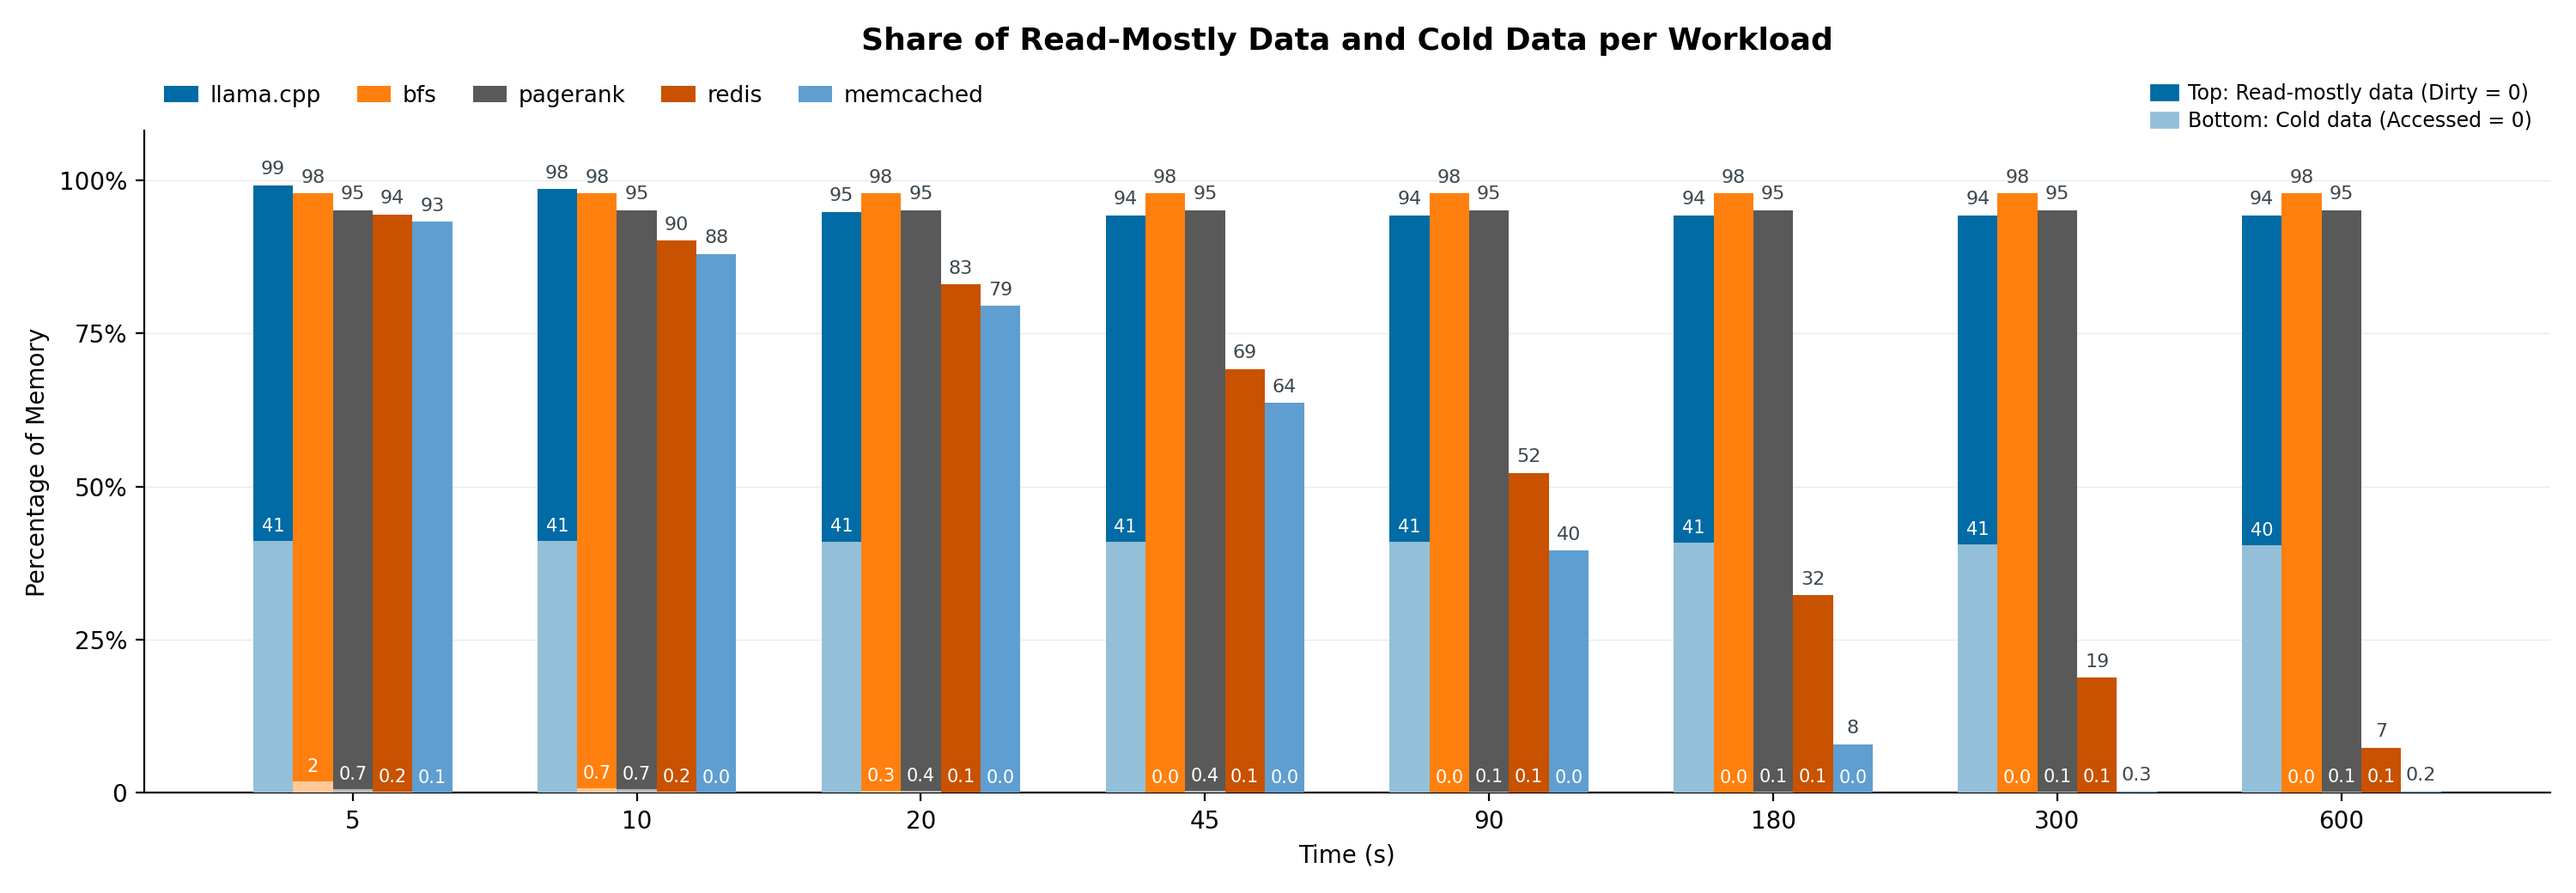
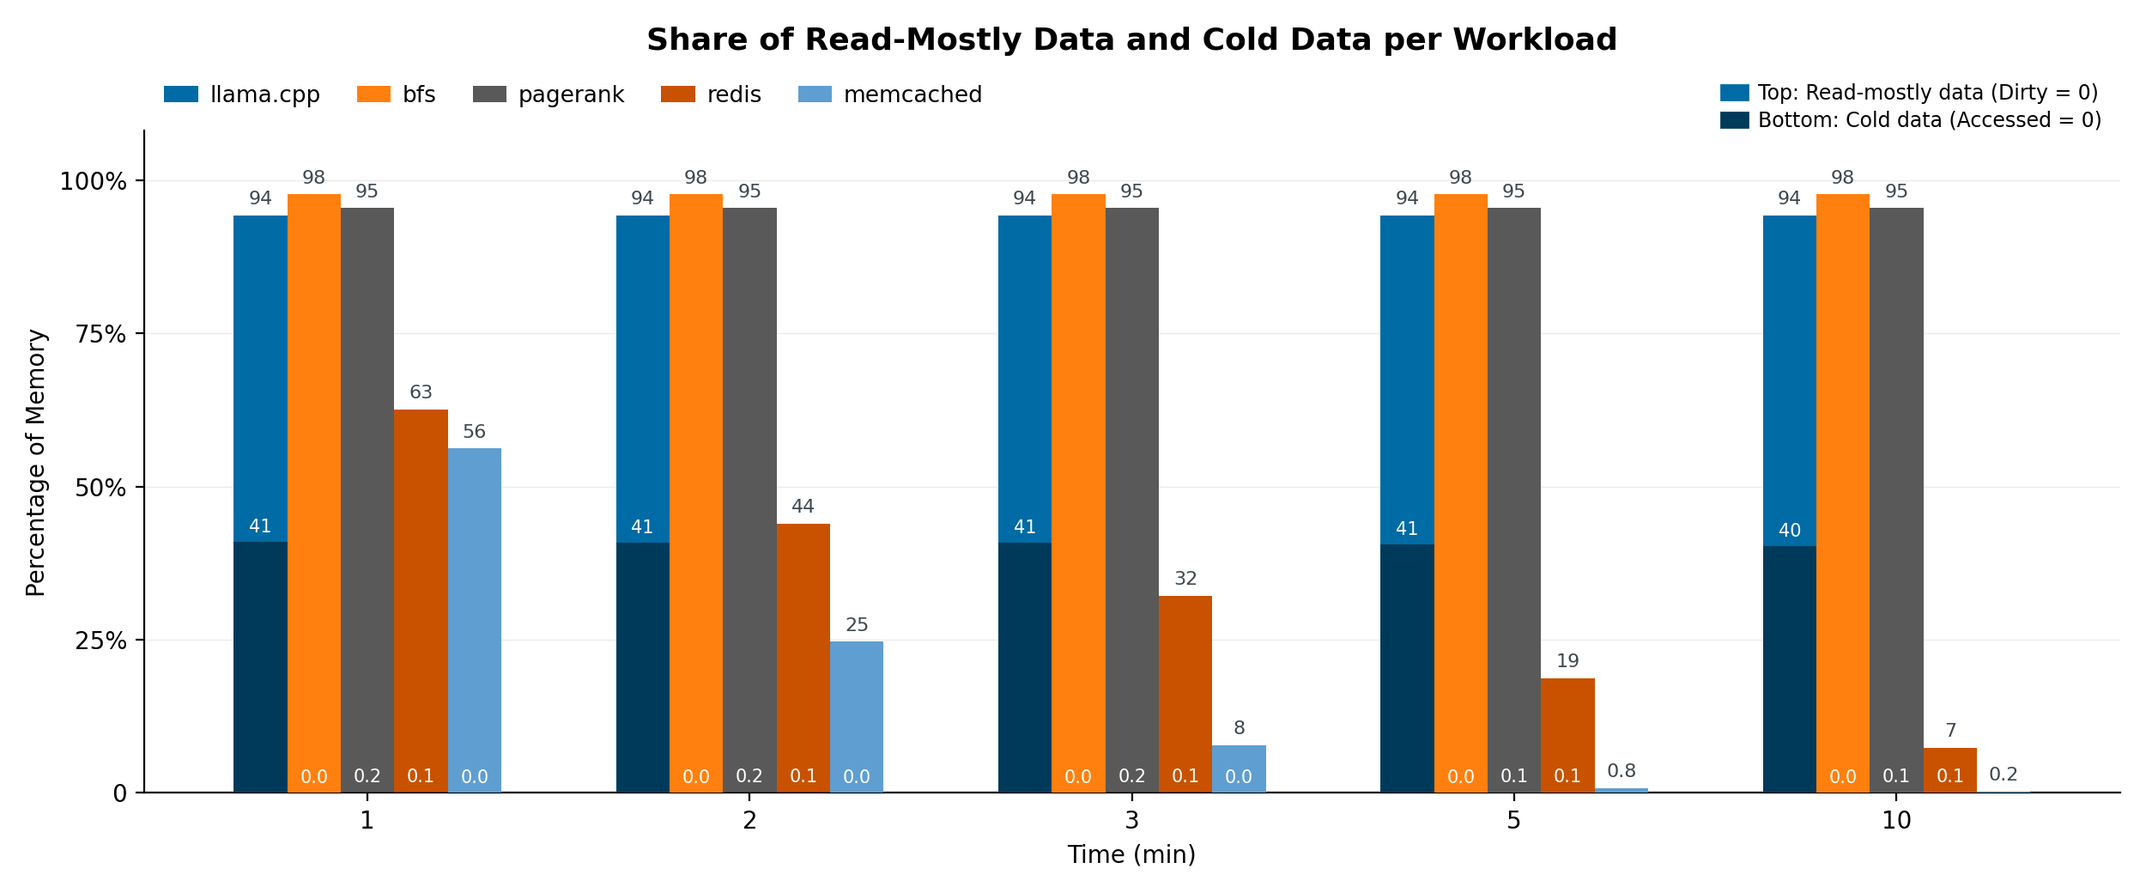
fig10: one figure, two T scales; census writes per ladder point
Drops the per-workload panel figure and the lighter-shade variant. What was
fig10c is now fig10 -- the whole ladder, log-spaced to 8 groups, ticks in
seconds.

fig10b is the same data on a minute scale at T = 1, 2, 3, 5, 10 min. These are
measured points, not interpolated: 60, 120, 180, 300 and 600 s are all on the
ladder already, so this needed no new run. The previous 1.5/3/5/10 was an
artefact of log-spaced thinning, not of what was measured.

grouped() now takes an explicit T list and a tick unit instead of deriving
both, so any subset can be drawn from the same data.

decay_census emits after every ladder point rather than every pass. At the
current 600 s ladder that hardly matters; at a 2-hour ladder a pass that dies
at 90 minutes would otherwise lose all 90 points it had already measured.

diff --git a/scripts/plot_census.py b/scripts/plot_census.py
@@ -100,70 +100,7 @@ for _n, _pts in work.items():
                   f"Monotone by definition.", file=sys.stderr)
 
 names = sorted(work)
-n = len(names)
-ncol = 1 if n == 1 else (2 if n <= 4 else 3)
-nrow = math.ceil(n / ncol)
-fig, axes = plt.subplots(nrow, ncol, figsize=(6.4 * ncol, 4.0 * nrow),
-                         squeeze=False)
 
-for k, name in enumerate(names):
-    ax = axes[k // ncol][k % ncol]
-    pts = work[name]
-    pts = [pts[j] for j in thin([p[0] for p in pts])]
-    ts   = [p[0] for p in pts]
-    wc   = [p[1] for p in pts]
-    cold = [p[2] for p in pts]
-    # cold_pct is -1 when the run had no root and could not read page_idle.
-    x = range(len(ts))
-    # Unprivileged runs can only measure cold at T = S, so a panel may have
-    # the cold segment on some bars and not others. Draw the full write-cold
-    # bar first and overdraw cold where it exists, rather than skipping the
-    # comparison entirely because one bar is missing it.
-    ax.bar(x, wc, width=.72, color=C_EXTRA, zorder=3,
-           label="write-cold: read, but not written in T  (what LtRAM moves)")
-    xc = [i for i in x if cold[i] >= 0]
-    if xc:
-        ax.bar(xc, [cold[i] for i in xc], width=.72, color=C_COLD, zorder=4,
-               label="cold: not accessed in T  (what cold-page tiering moves)")
-    have_cold = len(xc) == len(ts)
-
-    # One callout, on the T the argument is actually made at. A number the
-    # reader can quote beats a bar they have to measure against the axis.
-    tcall = a.at if a.at is not None else (ts[xc[-1]] if xc else ts[-1])
-    i = min(range(len(ts)), key=lambda j: abs(ts[j] - tcall))
-    if have_cold:
-        # Nudge off the frame when the callout sits on the last bar.
-        ha = "right" if i >= len(ts) - 1 else ("left" if i == 0 else "center")
-        dx = {"right": 10, "left": -10, "center": 0}[ha]
-        ax.annotate(f"{cold[i]:.0f}% \u2192 {wc[i]:.0f}%",
-                    (i, wc[i]), xytext=(dx, 7), textcoords="offset points",
-                    ha=ha, fontsize=10, weight="semibold", color="#3d474e")
-
-    if any(p[4] == "smaps_referenced" for p in pts):
-        ax.text(0.99, 0.03, "cold via smaps Referenced (proxy)", ha="right",
-                transform=ax.transAxes, fontsize=8, color="#7A838A")
-    mib = pts[0][3] * os.sysconf("SC_PAGE_SIZE") / 2**20
-    ax.set_title(f"{name}   ({mib:,.0f} MiB resident)", fontsize=12,
-                 weight="semibold", pad=10)
-    ax.set_xticks(list(x)); ax.set_xticklabels([tlabel(t) for t in ts], fontsize=9)
-    ax.set_ylim(0, 105); ax.set_yticks([0, 25, 50, 75, 100])
-    ax.set_yticklabels(["0", "25%", "50%", "75%", "100%"])
-    ax.set_xlabel("T, age threshold"); ax.set_ylabel("share of resident pages")
-    ax.grid(axis="y", alpha=.25, lw=.5); ax.set_axisbelow(True)
-    for s in ("top", "right"): ax.spines[s].set_visible(False)
-
-for k in range(n, nrow * ncol):
-    axes[k // ncol][k % ncol].axis("off")
-
-h, l = axes[0][0].get_legend_handles_labels()
-fig.legend(h[::-1], l[::-1], loc="lower center", ncol=1, frameon=False,
-           fontsize=10, bbox_to_anchor=(0.5, 0.0))
-fig.suptitle("Write-Cold Against Cold", fontsize=14, weight="semibold", y=0.995)
-fig.tight_layout(rect=[0, 0.055 + 0.02 * (2 - min(2, nrow)), 1, 0.975])
-os.makedirs(a.out, exist_ok=True)
-p = os.path.join(a.out, "fig10-write-cold.png")
-fig.savefig(p, dpi=200)
-print("wrote", p)
 # ---------------------------------------------------------------- grouped
 # Same numbers, transposed: T on the x-axis, one bar per workload inside each
 # T group. The panel-per-workload view answers "how much can we move in THIS
@@ -197,10 +134,11 @@ first = allT[0]
 ordered = sorted(names, key=lambda n: -next((p[1] for p in work[n]
                                              if p[0] == first), -1))
 
-def grouped(coldf, fname, note):
-    # A 14-point ladder x 5 workloads is 70 bars and renders 30 inches wide.
-    # Thin to the points that show the shape; the CSVs keep every one.
-    keep = [allT[i] for i in thin(allT, keep=8)]
+def grouped(keep, fname, unit="s", coldf=-0.45):
+    """keep: the T values to draw. unit: 's' or 'min' for the tick labels."""
+    keep = [T for T in keep if T in set(allT)]
+    if not keep:
+        return
     nb = len(ordered); bw = 0.70 / nb
     fig, ax = plt.subplots(figsize=(min(15.0, max(9.5, 1.9 * len(keep) + 3)), 5.2))
     for k, name in enumerate(ordered):
@@ -245,7 +183,7 @@ def grouped(coldf, fname, note):
             for T in keep}
     # One unit for the whole axis. A ladder that starts at 5 s renders as
     # 0.0833333 minutes, which is not a time anyone reads.
-    secs = keep[-1] < 60 or any(T % 60 for T in keep)
+    secs = (unit == "s")
     ax.set_xticks(range(len(keep)))
     ax.set_xticklabels([(f"{T:g}" if secs else f"{T/60:g}")
                         + ("" if hasc[T] else "\u2020") for T in keep])
@@ -286,8 +224,13 @@ def grouped(coldf, fname, note):
     fig.savefig(pth, dpi=200)
     print("wrote", pth)
 
-grouped(+0.58, "fig10b-write-cold-by-T.png",  "lighter shade: cold, not accessed in T")
-grouped(-0.45, "fig10c-write-cold-by-T.png",  "darker shade: cold, not accessed in T")
+# fig10: the whole ladder, log-spaced down to 8 groups, ticks in seconds.
+# A 14-point ladder x 5 workloads is 70 bars and renders 30 inches wide.
+grouped([allT[i] for i in thin(allT, keep=8)], "fig10-write-cold-by-T.png", "s")
+
+# fig10b: the same data on a minute scale. These T are measured, not
+# interpolated -- 60, 120, 180, 300 and 600 s are all points on the ladder.
+grouped([60, 120, 180, 300, 600], "fig10b-write-cold-by-T.png", "min")
 
 for name in names:
     # Report at the largest T that actually HAS a cold measurement -- an

diff --git a/scripts/decay_census.py b/scripts/decay_census.py
@@ -193,6 +193,7 @@ for p in range(a.passes):
         # max-so-far is both closer to the truth and monotone.
         ref_hi = max(ref_hi, ref)
         acc_cd[T].append(min(100.0, max(0.0, 100.0 * (1.0 - ref_hi / rss0))))
+        emit()          # per ladder point: a long pass that dies keeps what it had
         acc_gone[T].append(100.0 * int(gone.sum()) / N0)
         npages.append(N0)
     emit()
